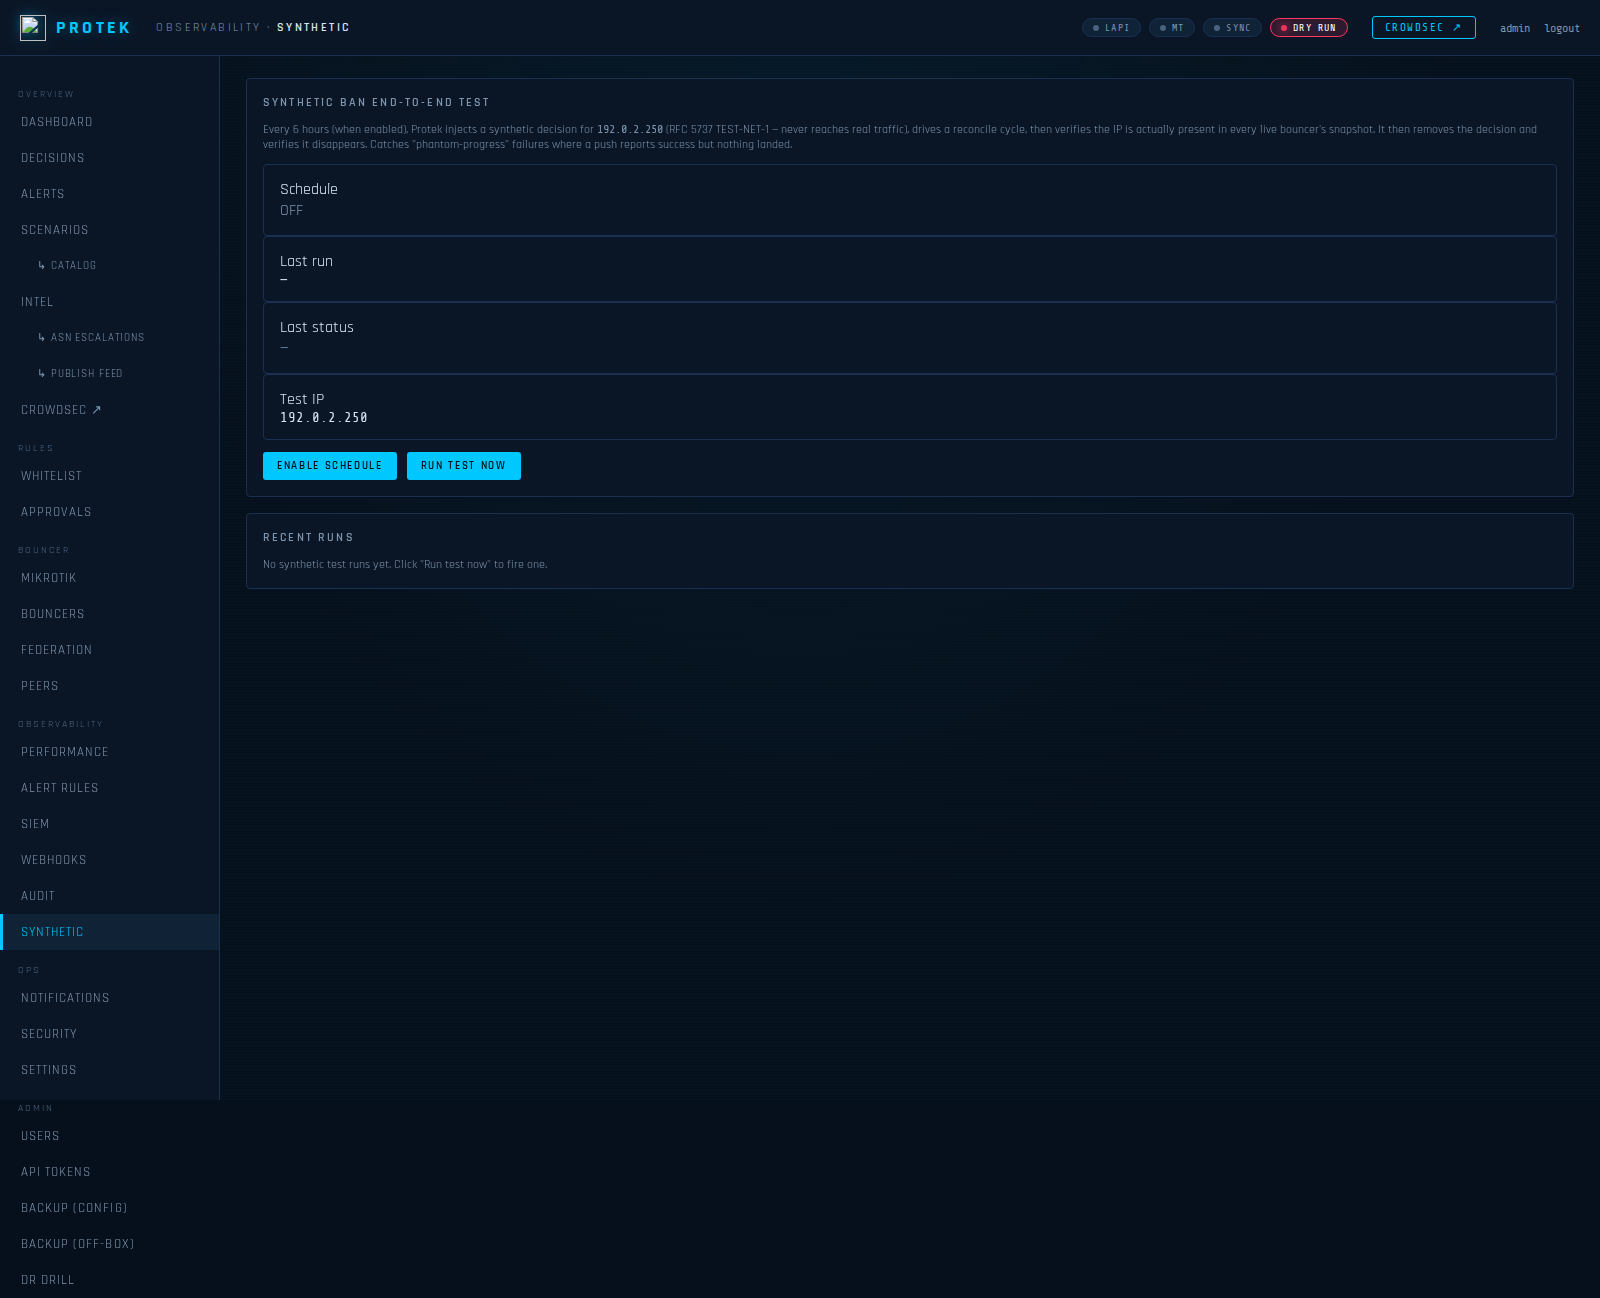
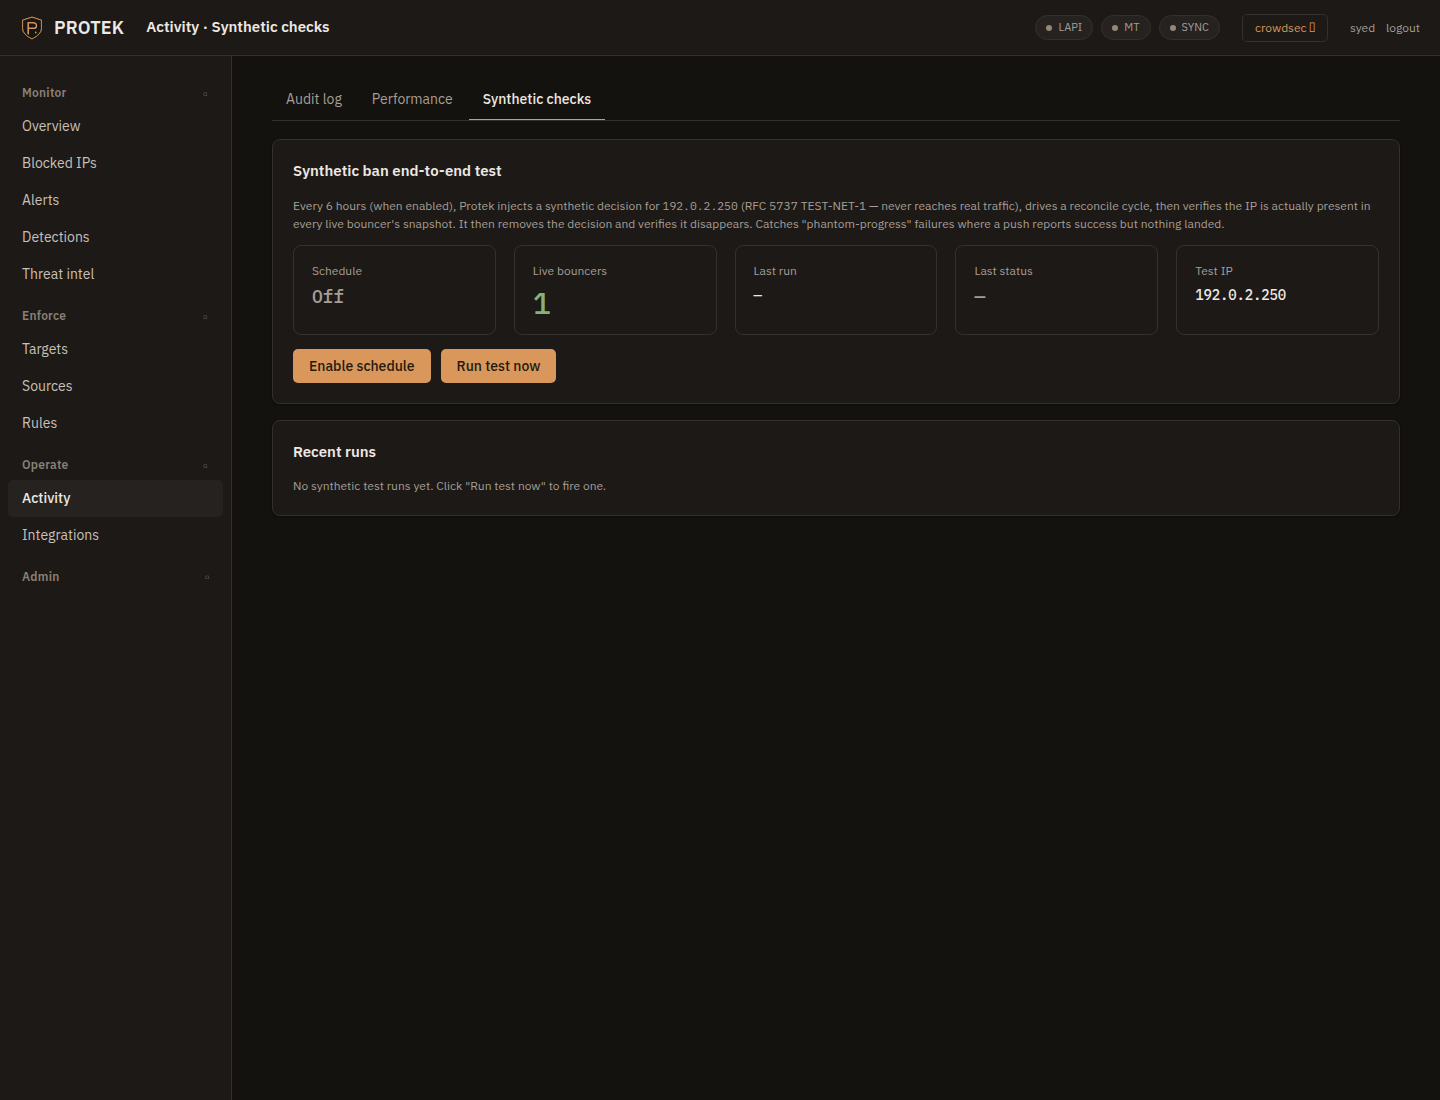
docs(readme): regenerate all 16 screenshots and correct stale UI claims
The README embedded screenshots dated 2026-06-23 — before the June redesign and
before the warm theme — so the public README showed a UI that had not existed for
months. All 16 regenerated against current main.

Sanitised before capture, which mattered: rendering /mikrotik, /settings and
/whitelist reproduces this instance's real router endpoint and RouterOS identity,
so screenshotting them as-is would have put straight back into a public repo the
identifiers removed in 8c9121f. Replaced with RFC 5737 documentation addresses
and generic names. Verified the rendered HTML was clean before any capture.

The old caption claimed "IPs blurred, secrets masked" — the first half was not
true of those images, which showed every IP in full. Replaced with an accurate
note: infrastructure identifiers are substituted, attacker IPs are shown as-is
because they are public CrowdSec blocklist data rather than operator
infrastructure, and no page renders a secret (credential fields are write-only
and masked to a last-4 hint).

Also corrected three claims that no longer held:
  - "NOC-style dashboard" / "cyan-to-green heatmap" / "cyan/green NOC palette;
    Rajdhani + Share Tech Mono" -> the warm palette and IBM Plex
  - the stack section credited Chart.js for the sparklines; Chart.js is not
    loaded anywhere and never has been — they are hand-rolled inline SVG
    polylines. docs/UI.md carried the same wrong claim.

diff --git a/README.md b/README.md
@@ -35,7 +35,7 @@
 
 ## What is Protek?
 
-Protek is a [CrowdSec](https://crowdsec.net) **bouncer with a NOC-style dashboard**. It pulls active decisions from one or more CrowdSec LAPIs, reconciles them into one or more firewalls (MikroTik, pfSense, OPNsense, iptables/ipset, Cloudflare), and gives you a single pane of glass over who is being blocked, why, where they came from, and which downstream targets are in sync.
+Protek is a [CrowdSec](https://crowdsec.net) **bouncer with an operations dashboard**. It pulls active decisions from one or more CrowdSec LAPIs, reconciles them into one or more firewalls (MikroTik, pfSense, OPNsense, iptables/ipset, Cloudflare), and gives you a single pane of glass over who is being blocked, why, where they came from, and which downstream targets are in sync.
 
 **The gap it fills:** CrowdSec ships first-party bouncers for nginx, iptables, Cloudflare, and a handful of others — but **not for MikroTik RouterOS**, and not as a coordinated multi-target hub. Protek is the polished, multi-bouncer, federation-capable version.
 
@@ -134,7 +134,7 @@ Each target has its own dry-run flag, batch cap, and per-stage timing. Multiple 
 - **N CrowdSec sources** (`sources` table) — add via `/federation`, health-probe-on-save, per-source backoff (2^streak min, cap 30), pause-without-delete.
 - **Decision union with dedup** by `(value, scope)`.
 - **Cross-source agreement scoring** — `ip_sources` table tracks every (ip, source, last_seen); threshold setting requires N distinct sources before a ban propagates.
-- **Topology + overlap matrix** — `/federation` page renders sources → PROTEK → targets as CSS topology + 4-level cyan-to-green overlap heatmap.
+- **Topology + overlap matrix** — `/federation` page renders sources → PROTEK → targets as CSS topology + 4-level overlap heatmap.
 - **Source reputation** — per-source scorecard (total / unique / shared / redundancy %); auto-recommendations ("highly redundant — consider pausing").
 
 ### Observability (Arc 6)
@@ -182,9 +182,15 @@ Each target has its own dry-run flag, batch cap, and per-stage timing. Multiple 
 
 ## Screenshots
 
-> All screenshots are sanitized (IPs blurred, secrets masked).
+> Screenshots regenerated 2026-09-04 against the warm theme.
+>
+> Sanitisation: this instance's own infrastructure identifiers (router endpoint,
+> host addresses, RouterOS identity) are replaced with RFC 5737 documentation
+> addresses and generic names. Attacker IPs are shown as-is — they are public
+> CrowdSec blocklist data, not operator infrastructure. No secret is rendered by
+> any page: credential fields are write-only and masked to `•••• <last4>`.
 
-### Dashboard — NOC overview
+### Dashboard — overview
 ![dashboard](docs/screenshots/dashboard.png)
 
 ### Decisions table
@@ -391,8 +397,8 @@ DR runbook in [`docs/DR-RUNBOOK.md`](docs/DR-RUNBOOK.md) — every failure mode 
 Backend:    Python 3.12 · Flask · SQLite (WAL mode, Litestream replicated)
 CrowdSec:   LAPI HTTP client (X-Api-Key bouncer auth); /v1/decisions + /v1/decisions/stream
 Bouncers:   routeros_api (MikroTik), requests (pfSense / OPNsense / Cloudflare), ipset shell-out
-Frontend:   Jinja2 server-rendered HTML; Chart.js sparklines; Leaflet 1.9 + MarkerCluster for the
-            world map; cyan/green NOC palette; Rajdhani + Share Tech Mono fonts (Google Fonts)
+Frontend:   Jinja2 server-rendered HTML; hand-rolled inline-SVG sparklines; Leaflet 1.9 +
+            MarkerCluster over OpenStreetMap tiles; warm dark palette; IBM Plex Sans + Mono
 Auth:       bcrypt + pyotp TOTP, Flask sessions, rate limiting, optional IP whitelist
 Notify:     Discord webhook · Telegram bot · SMTP MIME — all 8–10 s timeouts, SSRF guards
 Resilience: Off-box backup (S3 / B2 / MinIO) + Litestream WAL replication + synthetic self-test

diff --git a/docs/UI.md b/docs/UI.md
@@ -95,7 +95,7 @@ Rules:
 │  ACTIVE DECISIONS               │  ← IBM Plex Sans 500, sentence case, var(--muted), 11px
 │                                 │
 │  1,247                          │  ← IBM Plex Mono, 36px, var(--ok)
-│  ▁▂▃▄▅▆▇ 24h                   │  ← Chart.js sparkline, cyan stroke
+│  ▁▂▃▄▅▆▇ 24h                   │  ← inline-SVG sparkline, var(--ok) stroke
 └─────────────────────────────────┘
 ```
 
